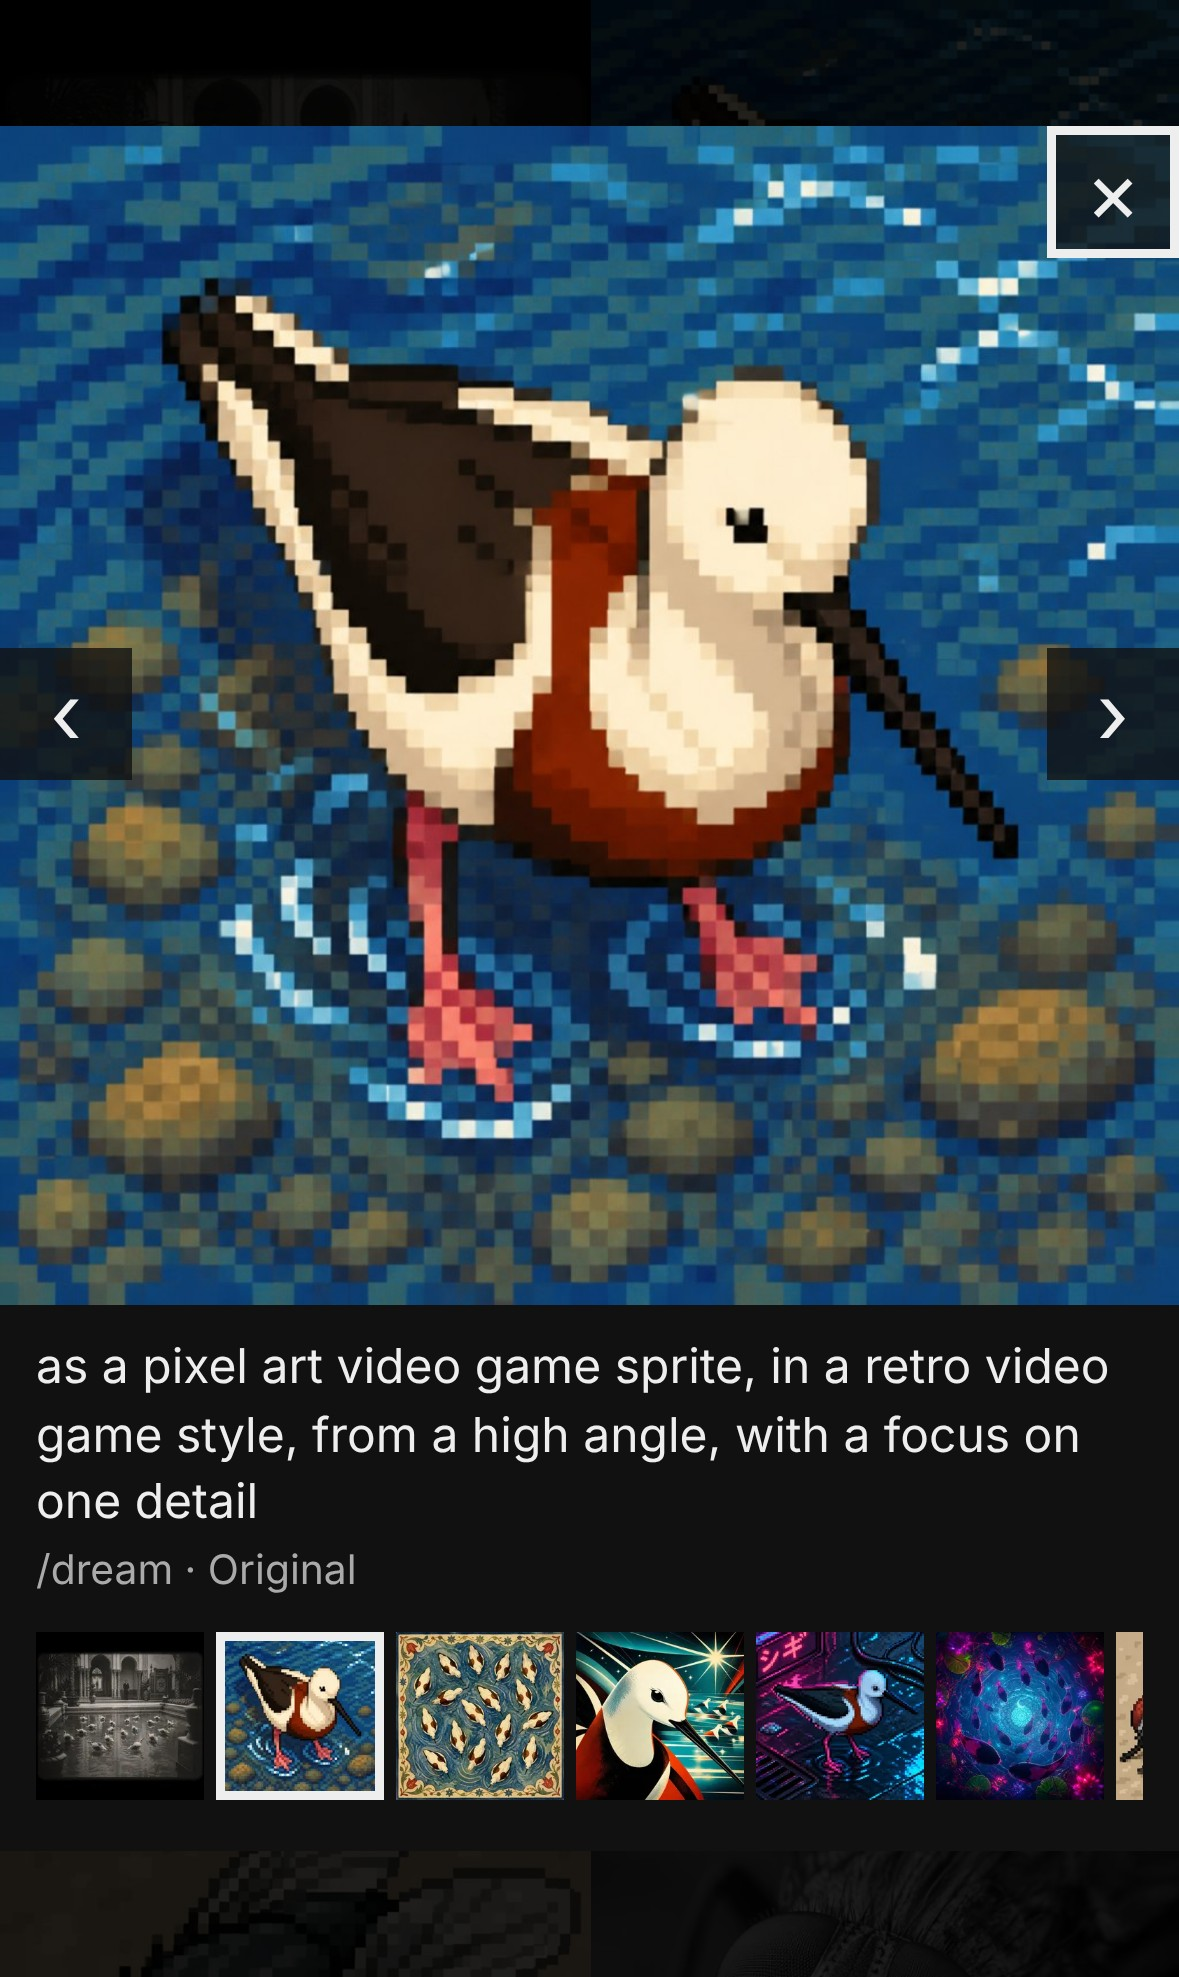
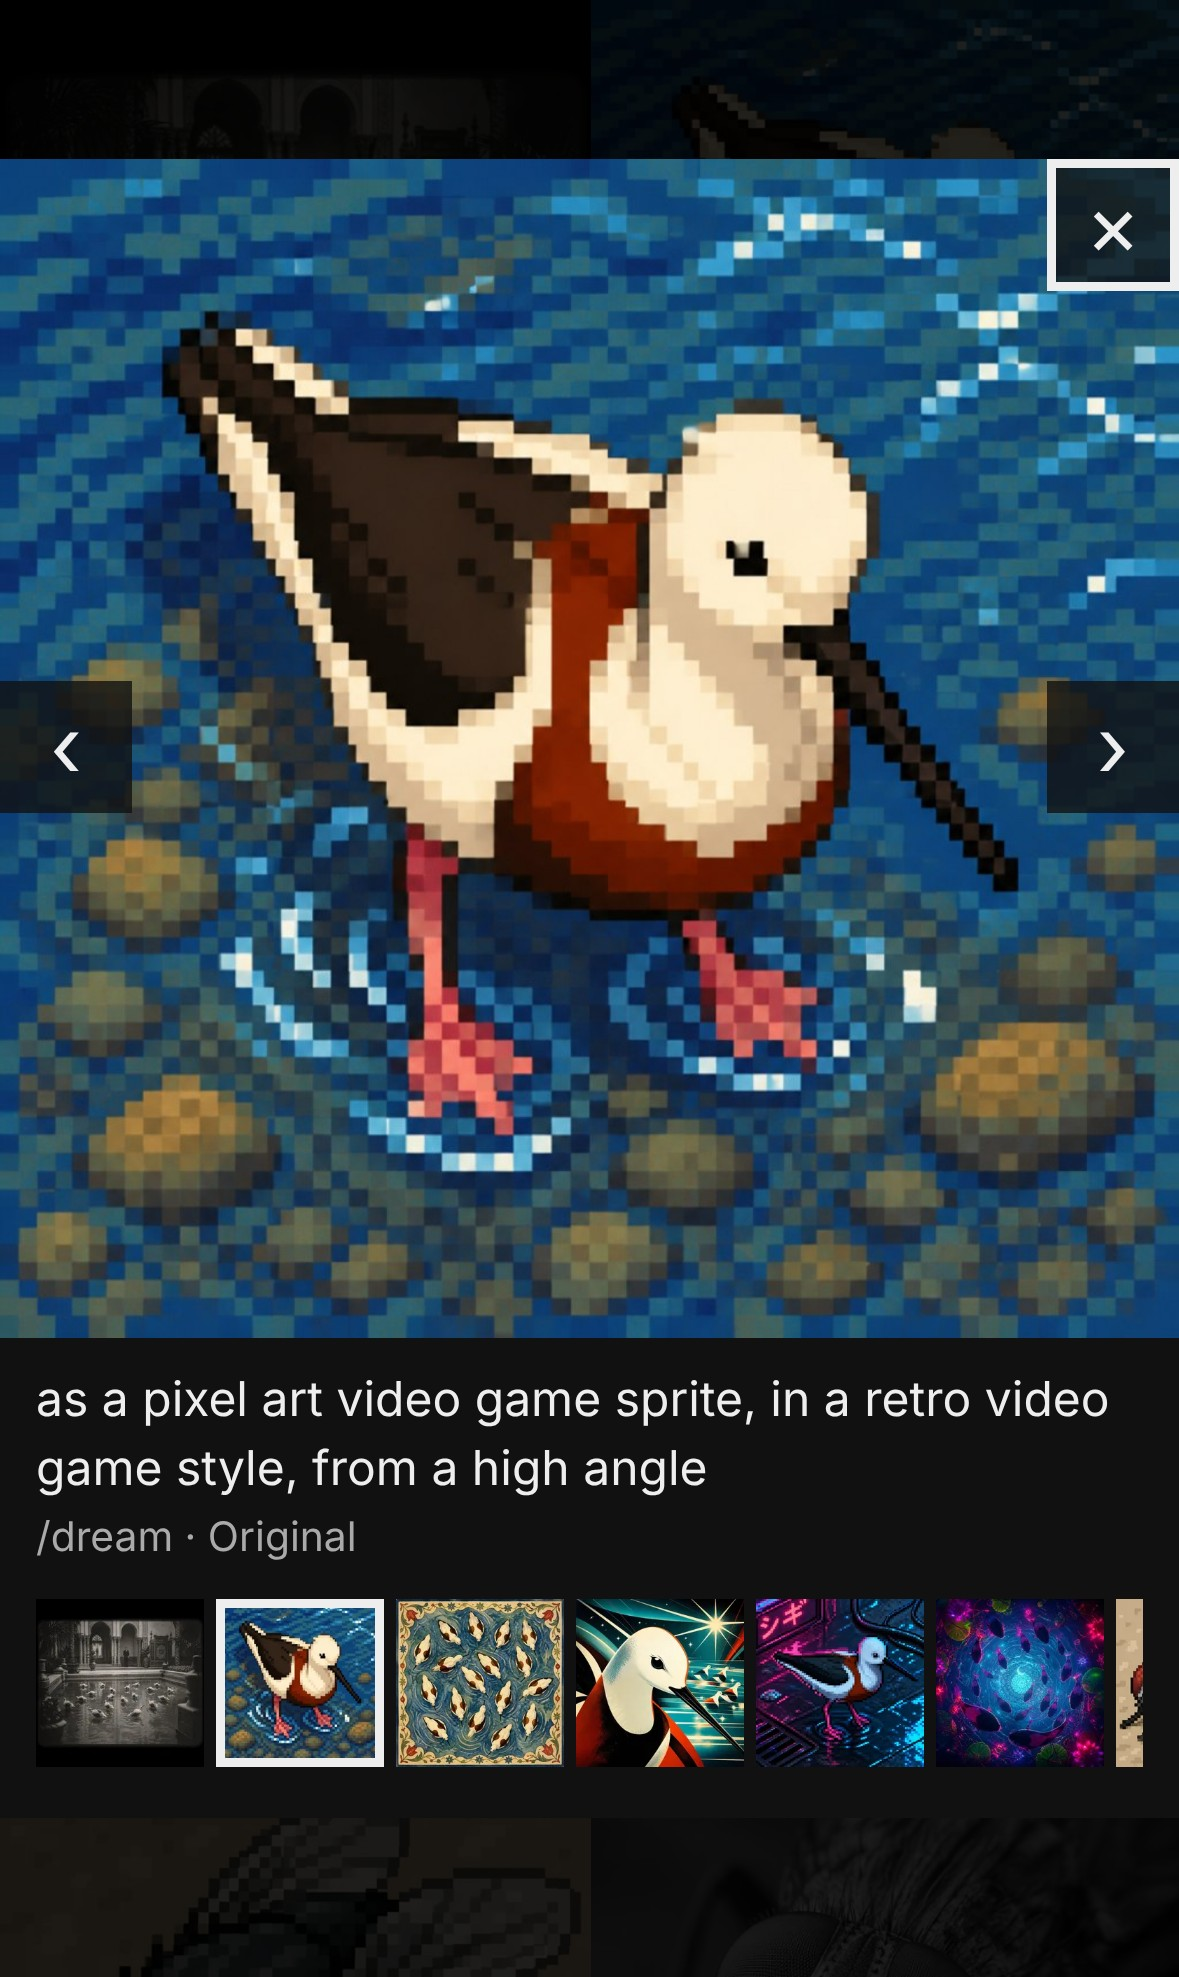
README viewer screenshot: shorter caption
Claude-Session: https://claude.ai/code/session_01RsqJnwc1KhZgxetzj61D45

diff --git a/e2e/screenshots.spec.js b/e2e/screenshots.spec.js
@@ -29,7 +29,7 @@ const ORDER = [4, 6, 7, 8, 5, 3, 2, 1].map(n => `telegram-0${n}.jpg`)
 // The picture the viewer screenshot opens, with the caption it had in the chat. (The dev stack's
 // captions are made up and have nothing to do with the pictures.)
 const VIEWER = 'telegram-06.jpg'
-const VIEWER_CAPTION = 'as a pixel art video game sprite, in a retro video game style, from a high angle, with a focus on one detail'
+const VIEWER_CAPTION = 'as a pixel art video game sprite, in a retro video game style, from a high angle'
 const sha = buf => crypto.createHash('sha256').update(buf).digest('hex')
 const samples = path.join(__dirname, '..', 'testdata', 'telegram')
 const fileOf = new Map(fs.readdirSync(samples).map(f => [sha(fs.readFileSync(path.join(samples, f))), f]))
